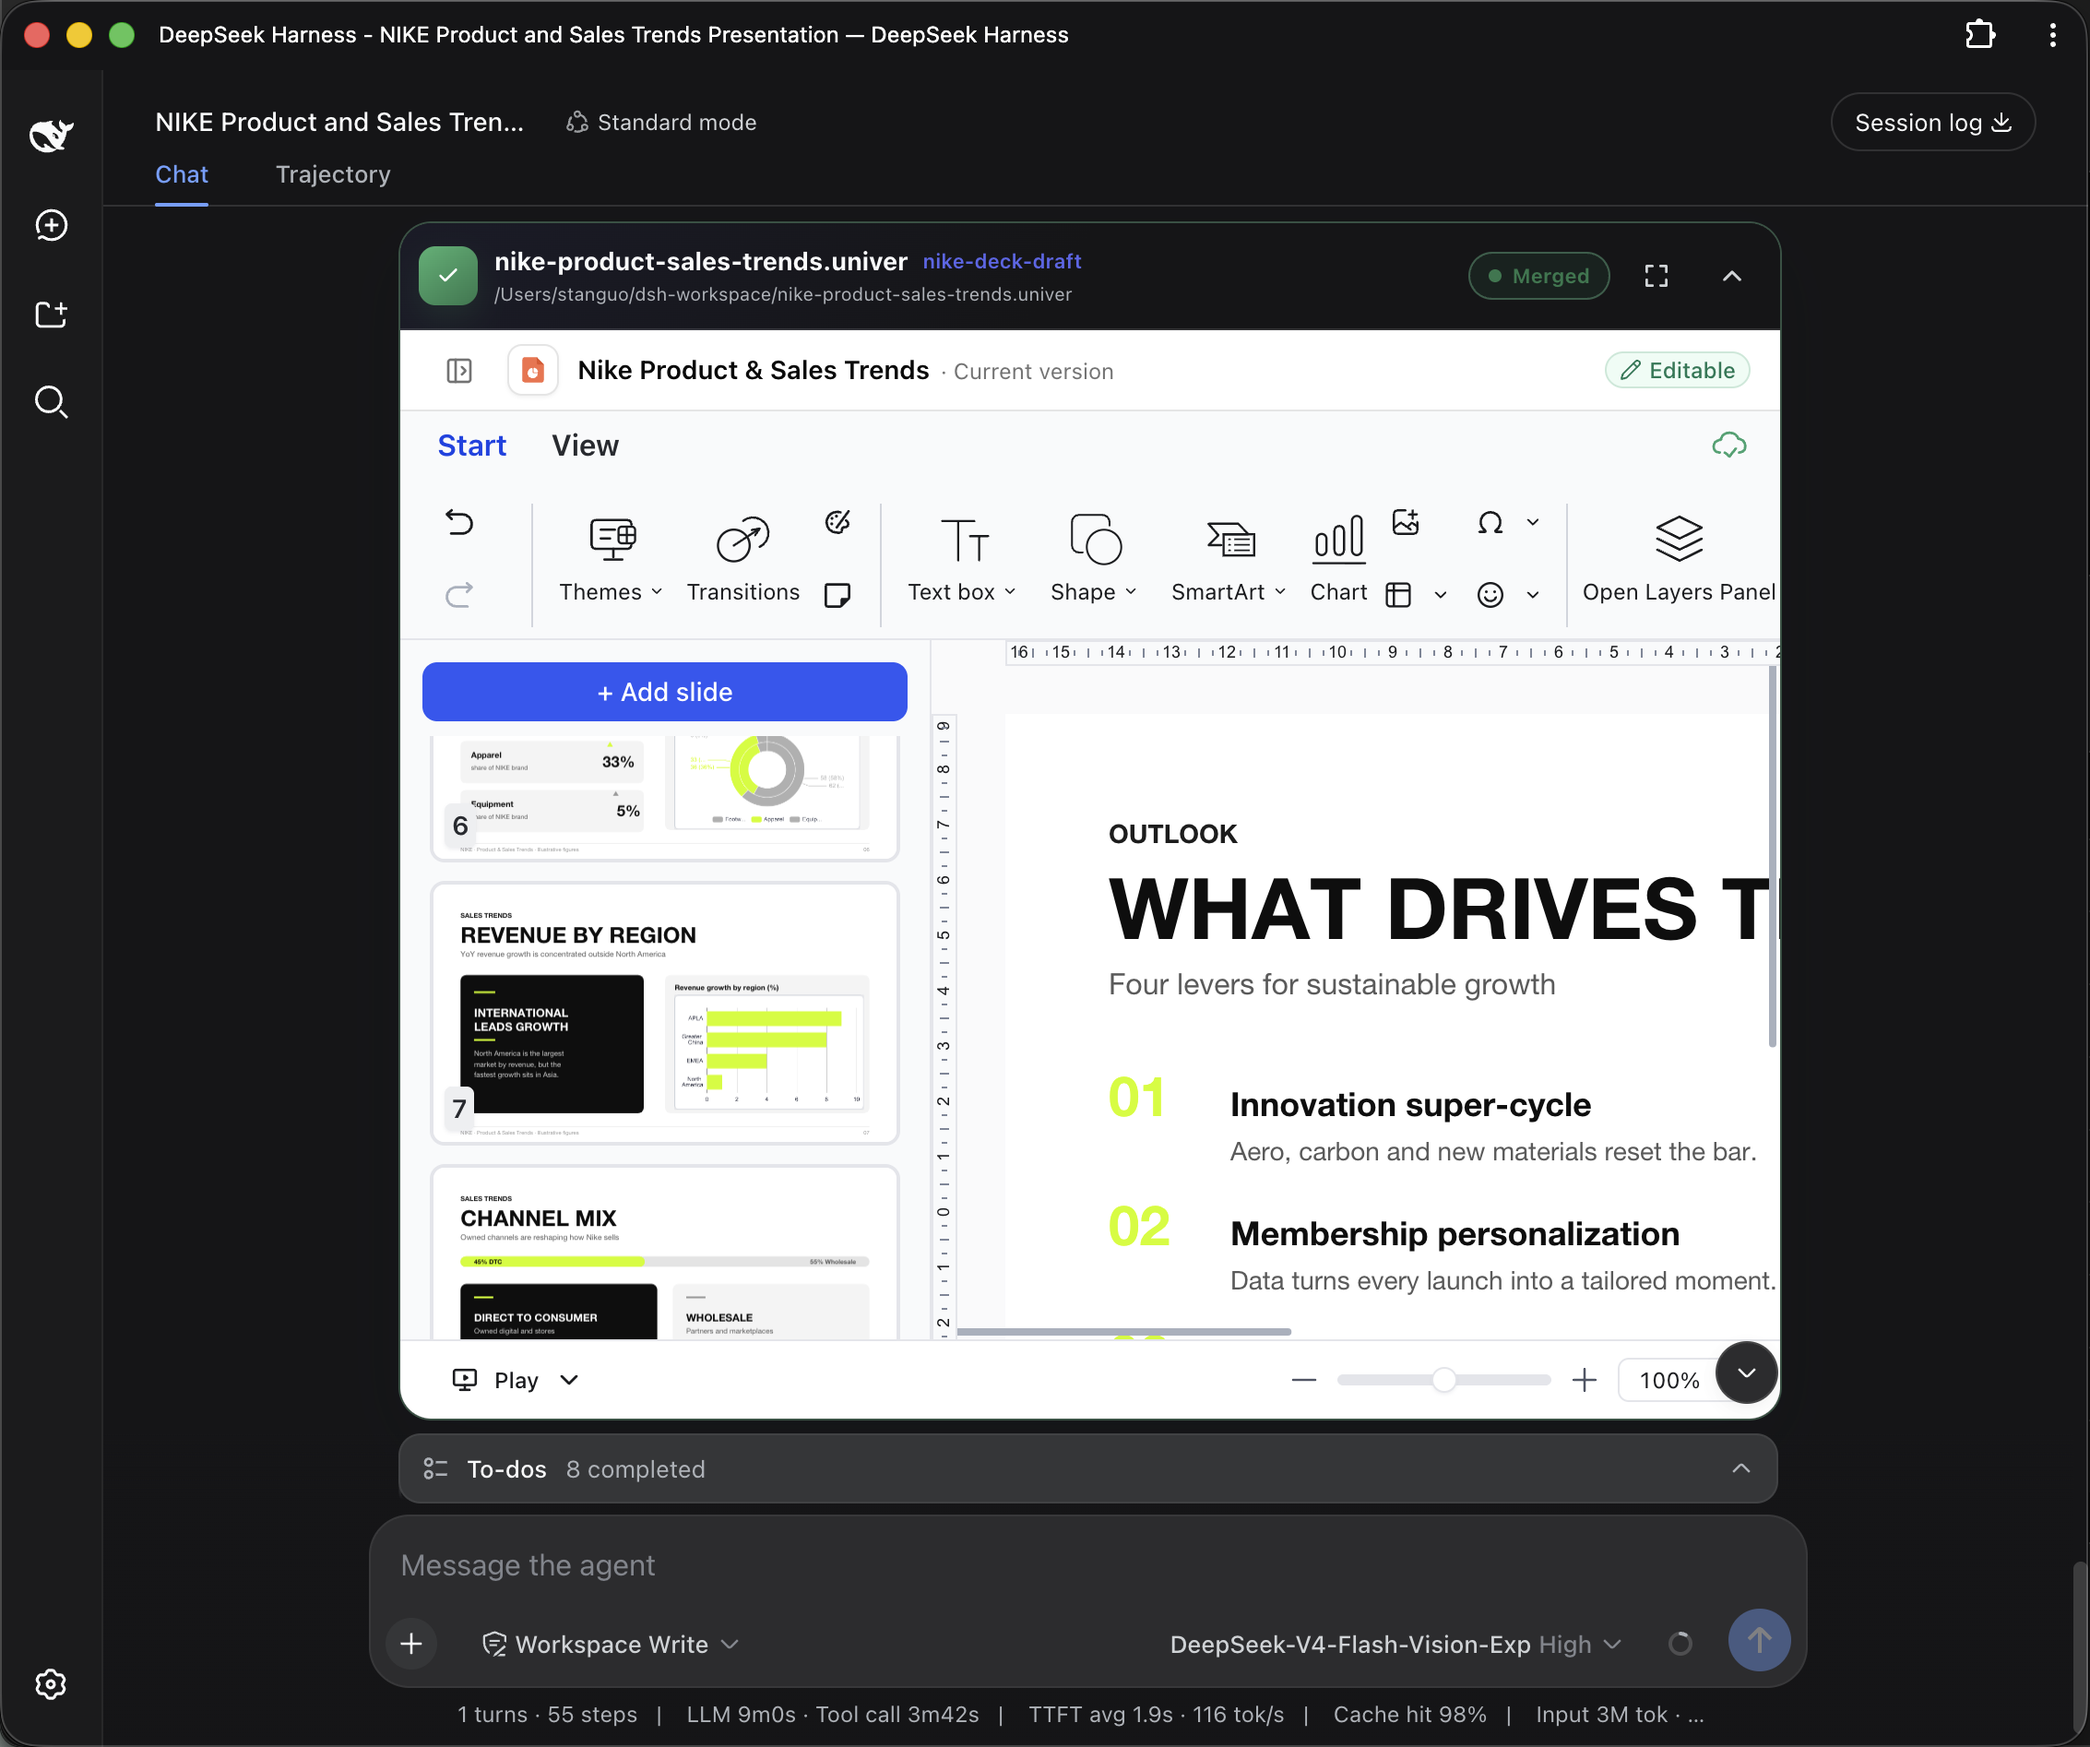
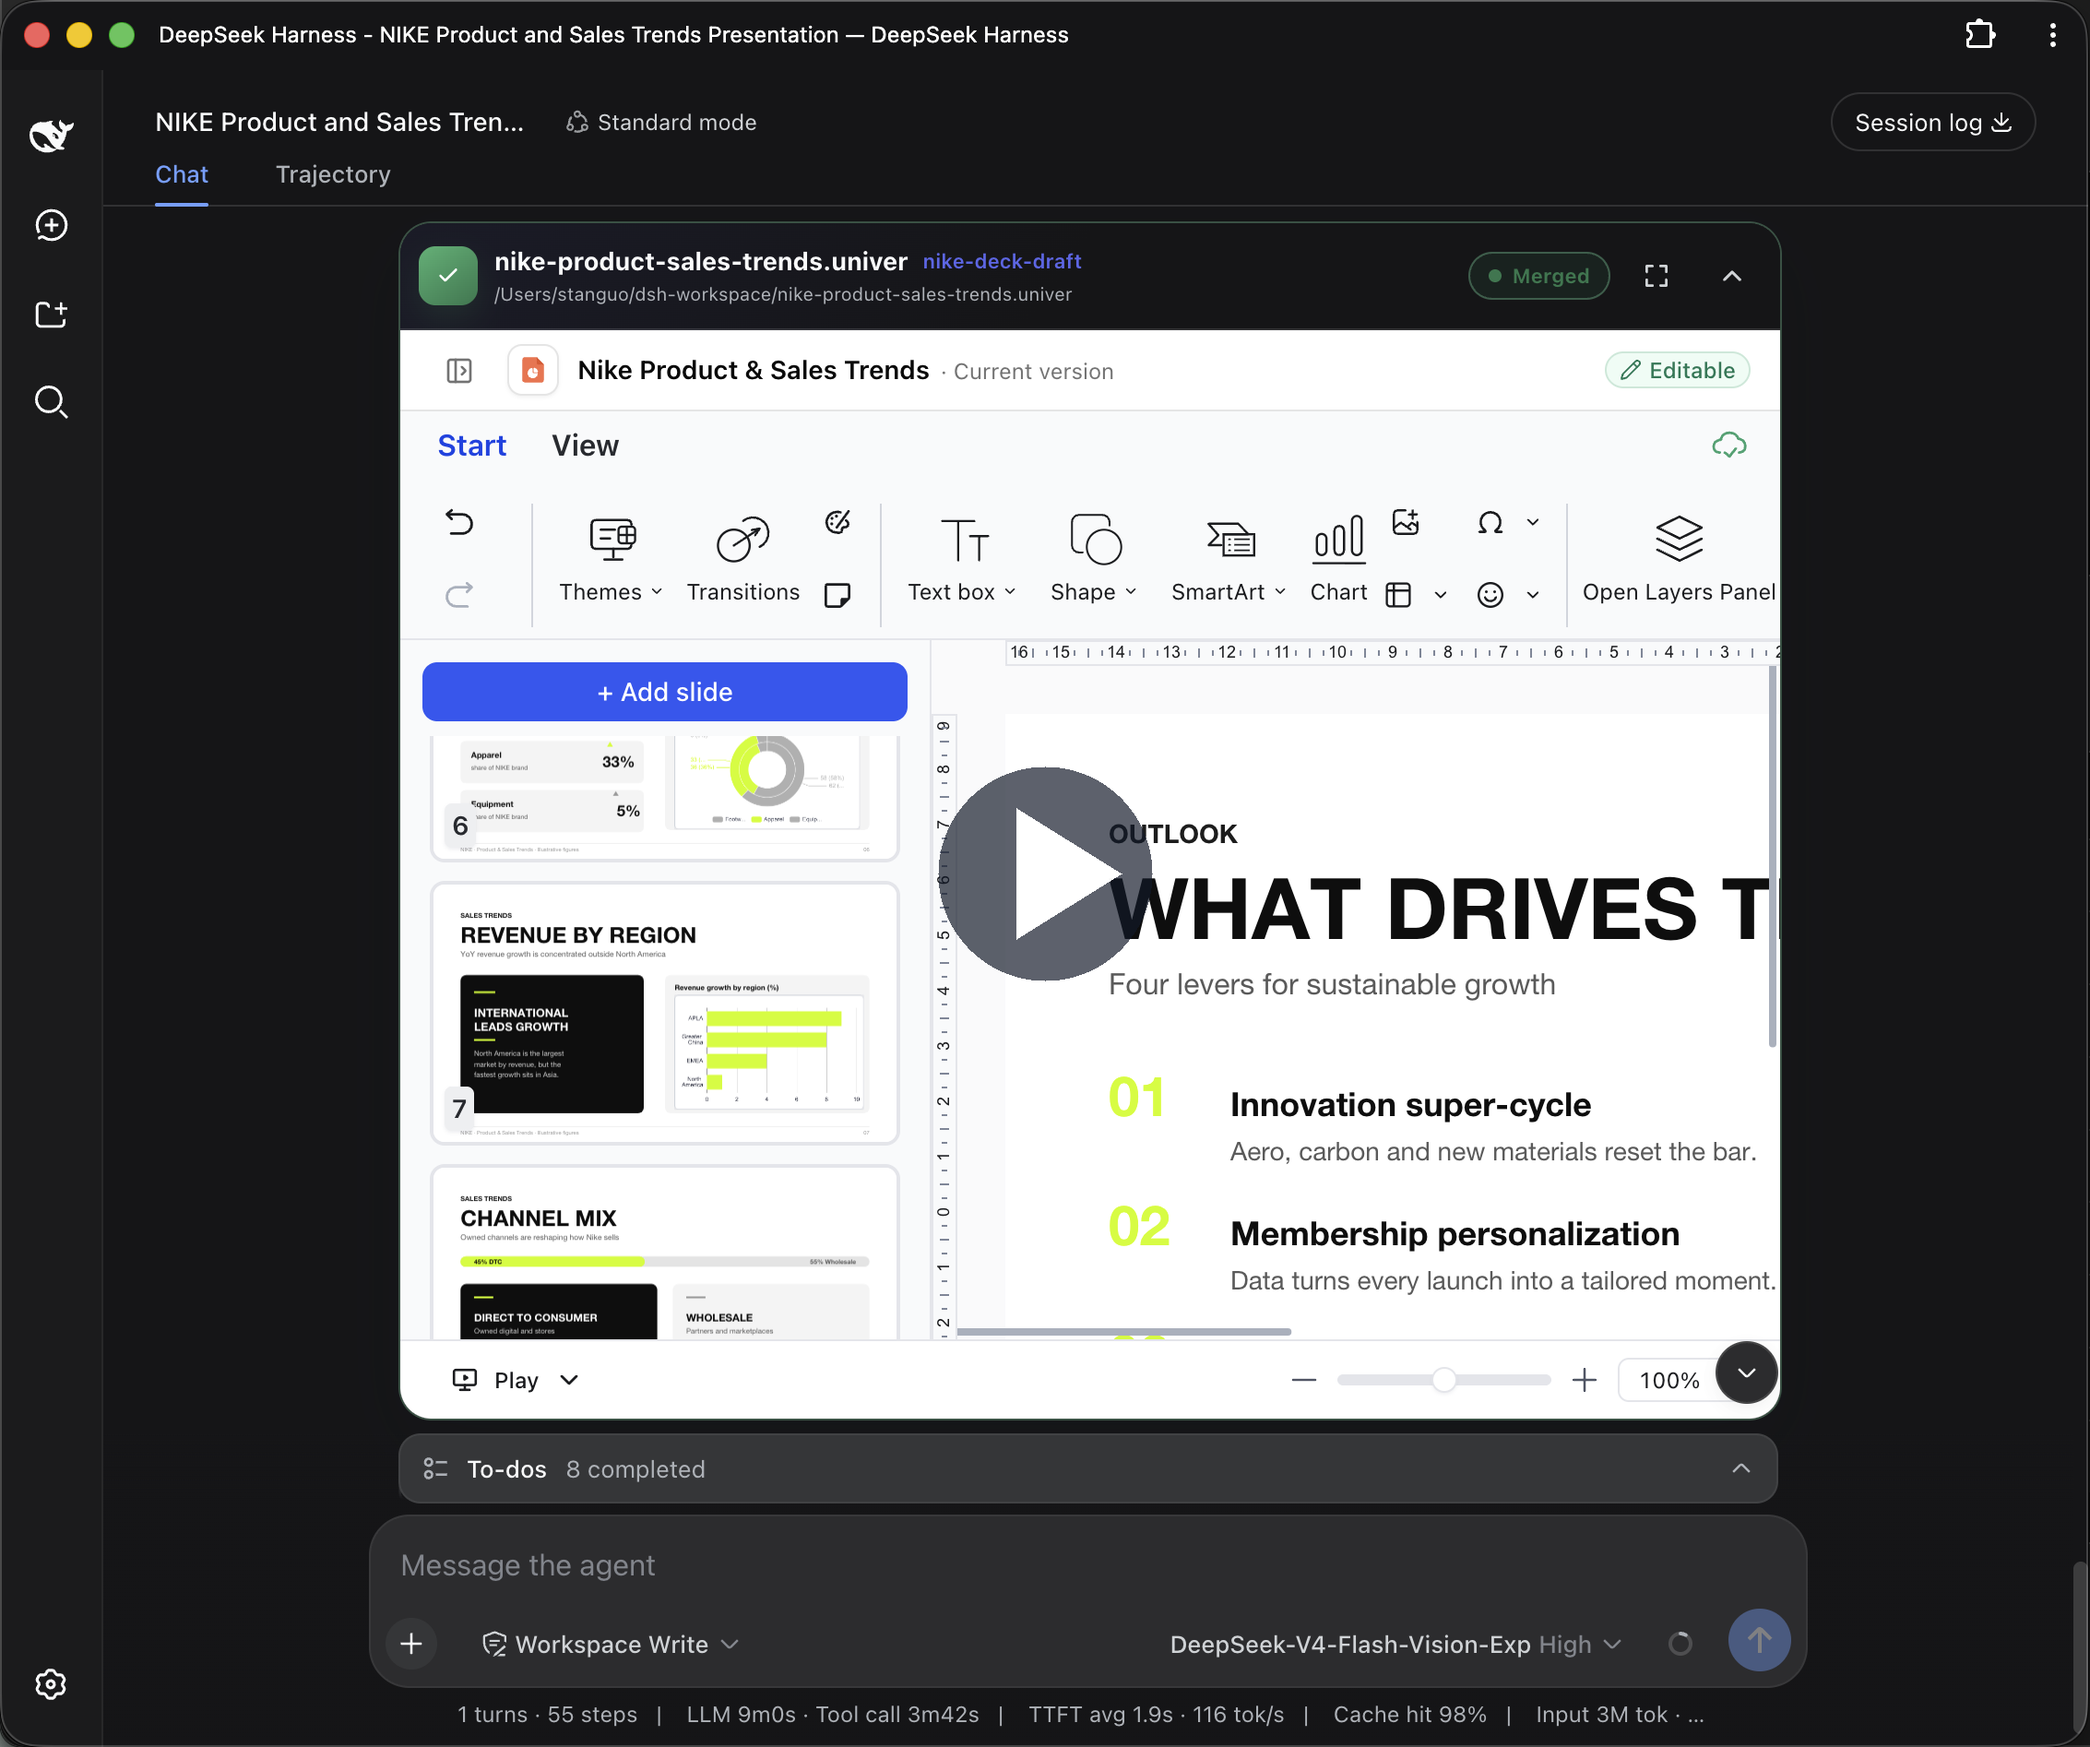
docs: make demo screenshot link to video

Changed region(s): [[0.4325, 0.4361, 0.556, 0.5607]]

diff --git a/README.md b/README.md
@@ -18,7 +18,7 @@ After installation, describe the result you want in natural language. The agent 
 
 ## See it in action
 
-![Creating and reviewing a Nike sales presentation in DSH](docs/assets/readme/nike-presentation-demo.png)
+[![Play the DSH × Univer Office demo](docs/assets/readme/nike-presentation-demo.png)](https://www.youtube.com/watch?v=k-2zW_CMiew)
 
 
 The agent created this spreadsheet from a natural-language request, then added conditional formatting and a chart in the same conversation. The result can be previewed, revised, merged into the current version, or discarded in place.

diff --git a/README.zh-CN.md b/README.zh-CN.md
@@ -16,7 +16,7 @@
 
 ## 看看实际效果
 
-![在 DSH 中创建并审阅 Nike 销售演示文稿](docs/assets/readme/nike-presentation-demo.png)
+[![播放 DSH × Univer Office 演示视频](docs/assets/readme/nike-presentation-demo.png)](https://www.youtube.com/watch?v=k-2zW_CMiew)
 
 
 下面的电子表格由 Agent 根据自然语言要求创建，并在同一个会话中继续添加条件格式和图表。完成后可以直接预览、继续修改、合入当前版本或丢弃。
